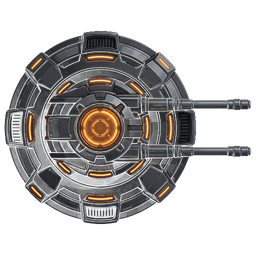
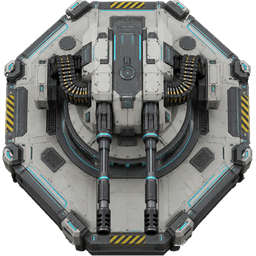
第47弾: 戦艦・ドローンの全スプライトを Star Citizen 風のデザインで作り直し (Higgsfield)
Claude-Session: https://claude.ai/code/session_01JhR5z5pbpMjPLdDtvMr527

diff --git a/prototype/game.js b/prototype/game.js
@@ -408,10 +408,10 @@ const ENGINE_THRUST = {
 
 // バーニア位置定義 [lxFrac, lyFrac] × vr(=radius*2.8)。bow=+X、stern=-X。
 // 移動時のみCanvasグロー描画。スプライト自体にはスラスター不要（船体のみ生成）。
-const THRUSTER_DEFS = {
-    assault: [[-0.88,-0.35],[-0.88,-0.12],[-0.88, 0.12],[-0.88, 0.35]], // 4基
-    stealth: [[-0.88,-0.07],[-0.88, 0.07]],                              // 2基
-    carrier: [[-0.90,-0.30],[-0.90,-0.10],[-0.90, 0.10],[-0.90, 0.30]], // 4基(新スプライト合わせ)
+const THRUSTER_DEFS = { // 第47弾: 新スプライト (Higgsfield・Star Citizen風) の噴射口に合わせて実測
+    assault: [[-0.93,-0.51],[-0.93, 0.47]],                                            // 2基 (大型ナセル)
+    stealth: [[-0.93, 0.0]],                                                           // 1基
+    carrier: [[-0.96,-0.32],[-0.96,-0.17],[-0.96, 0.0],[-0.96, 0.17],[-0.96, 0.34]],  // 5基
 };
 
 // ============================================================

diff --git a/prototype/index.html b/prototype/index.html
@@ -14,7 +14,7 @@
     <link rel="manifest" href="manifest.webmanifest">
     <meta name="theme-color" content="#020a06">
     <!-- ?v= は game.js/style.css を変更するたびに必ず更新する (キャッシュバスティング) -->
-    <link rel="stylesheet" href="style.css?v=20261108a">
+    <link rel="stylesheet" href="style.css?v=20261108b">
     <link
         href="https://fonts.googleapis.com/css2?family=Orbitron:wght@400;700&family=Inter:wght@300;400;600&display=swap"
         rel="stylesheet">
@@ -772,7 +772,7 @@
     </div>
 
     <!-- ?v= は game.js を変更するたびに必ず更新する (ブラウザ/GitHub Pagesのキャッシュ対策) -->
-    <script src="game.js?v=20261108a"></script>
+    <script src="game.js?v=20261108b"></script>
     <script>
     // アイコンボタン ↔ hidden select の同期
     function setupIconSelect(groupId, selectId) {

diff --git a/HANDOVER.md b/HANDOVER.md
@@ -20,6 +20,7 @@
 
 - **第45弾**（§3-59）: ソナーの出力トグル（索敵 → [出力 弱/中/強][全周囲][指向性]・`sonarLevel`）。⚠ ポップオーバーの子ボタンは押すと閉じる — 開いたままにしたいボタンには `data-keepopen`
 - **第46弾**（§3-60）: ドローン帰還=本物の命令（指示は圏外にも届く・全機帰還）・全武器の座標射撃（射程外はその方向へ）・戦闘バーの表示条件・散布弾/吹き飛ばし弾/帯域ビーコン・COMの作戦「囮で誘い背後を取る」（`enemyPlanStep`/`comPlanStep`）・効果音の合成し直し（`_sfx*`）。⚠ `droneOrders[type]` が `{kind:'return'}` を持つ — 「指示なし」を前提に `!droneOrders[t]` で判定しないこと / `higgsClears` の要素は線(幅300u)と円(`hw`)の両方
+- **第47弾**（§3-61）: 戦艦・ドローンの全スプライトを Star Citizen 風に作り直し（Higgsfield→手元で背景抜き）。⚠ Higgsfield の `remove_background` は starter プランで同時4ジョブ・生成も429が出やすい → 背景が単色なら手元の塗りつぶし抜き（四隅の色・外周から連結・scipy）で足りる。スラスターの光は `THRUSTER_DEFS` を絵の噴射口に実測で合わせる（シアンの輝点を左25%で検出）
 - **第44弾**（§3-58）: 感度は弱/中/強の3段階（帯域バーのタップで OFF→弱→中→強→OFF・全OFF可）・センサー範囲の常時表示・ドローンの有視界・難破船は発見まで隠す・誤認の表示 `_phantomMarks`・マップの傾向 `rollMapTheme` と信号の置き場所 `_fieldSpotFor`。⚠ 信号の種類を足す時は `_fieldSpotFor` に置き場所の規則を、`generateFieldSignals` に傾向の重みを入れること
 - **第43弾**（§3-57）: 帯域ごとの感度（OFF/標準/高感度・帯域バーのタップで循環）・ソナーの出力（弱/標準/強・「索敵」タップ/長押し）・指向ソナーは向きの先だけ・濃度表示は聴いている帯域に効く層だけ。⚠ 受信の式に帯域ごとの倍率 `gainOf` を入れたので、新しく発信源を聴く所を足す時は `hearSource(..., bandGainP)`（敵は `bandGainE(e)`）を渡すこと。⚠ 右列「索敵」のポップオーバー（`data-group="scan"`）は廃止 → 指向ソナー・信号一覧は長押しメニュー
 - **第42弾**（§3-56）: エンジンの性能差（速さ `engineSpeedFactor`・EMの機動・推進の信号の向き `ENGINE_DIR`/`sigToward`・届く強さ）と、COMの場面×環境でのエンジン選び（`comEngineEval`/`comEngineDecide`・敵も試合中に切替）。パルスの表示名はEM。⚠ 受信の式に向きを入れたので、新しく発信源を聴く所を足す時は `sigPeak` ではなく `sigToward(発信源, 帯域, 受け手x, 受け手y)` を使うこと

diff --git a/TODO.md b/TODO.md
@@ -2082,3 +2082,8 @@ radius    = MAP_RADIUS × (1 - avg_param / 100)
 第10弾§3-24HUD視覚安定化(サークル/ガイドの離散更新を連続化) /
 第11弾§3-25折りたたみ時RXSIGメーター(env-sig-canvas代替)。
 旧: 2026-06-21 — §3-14 追加: Operation/AI リネーム + Gain アーキテクチャ設計確定。§4-4 H/I 追加: 方向解析パラメータ（dirAnalysis）・三角測量パラメータ（triParam）設計確定（2026-06-21 壁打ち）。PR#89: kinetic/missile想定ロック散弾・オフセット。PR#90: 解析モーダル移動ペナルティ=なし（オーナー決定）。PR#91: 右オシロスコープ(env-sig-canvas)→解析パネル開閉。PR#92: 長押しラジアルメニュー+ミニマップ三角測量円。PR#93: SUP削除・GEN配分2列化・ダメージ浮き文字・システムログHIT表示・敵HPバー常時表示。PR#95: エンジン/センサーGCBサイクルUI・キャッシュバスティング。PR#96: センサー依存型マップ表示・リロード÷2・地形シグネチャ放射・信号解析モーダル刷新・360°方位目盛り。*
+
+### 3-61. ✅ 第47弾: 全スプライトを Star Citizen 風のデザインで作り直し (2026-11-08・`claude/youthful-ride-jsr63s`)
+詳細は `CLAUDE.md` の「第47弾」。戦艦6種＋ドローン8種＋ミサイルの計15枚を Higgsfield で生成・差し替え、スラスターの光の位置を実測で合わせた。
+- 案: コロニー・難破船・輸送船・ノード・機雷・囮のスプライトも同じ言語に揃える / 3Dの試作（§4-6）は据え置き。
+
